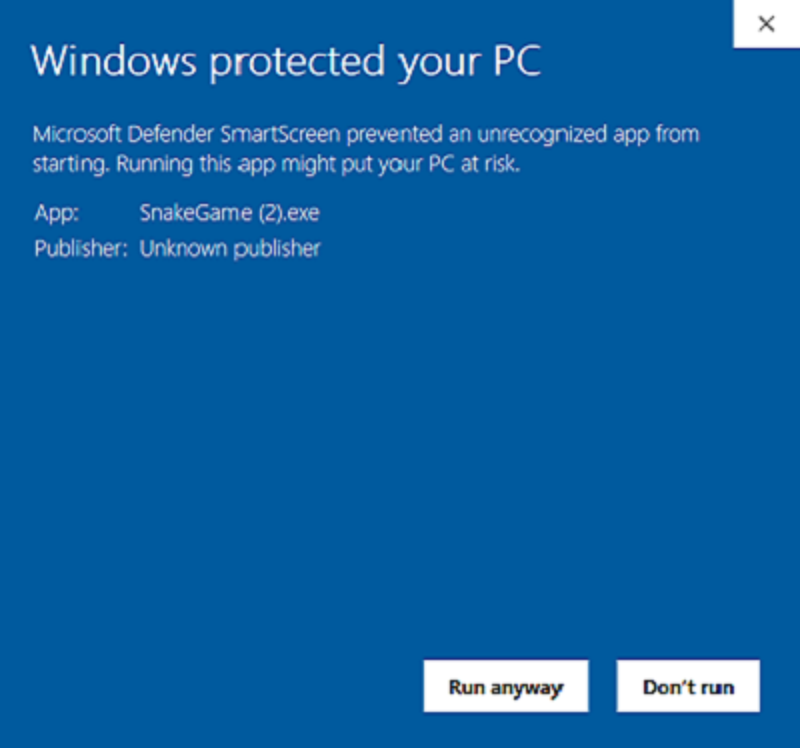
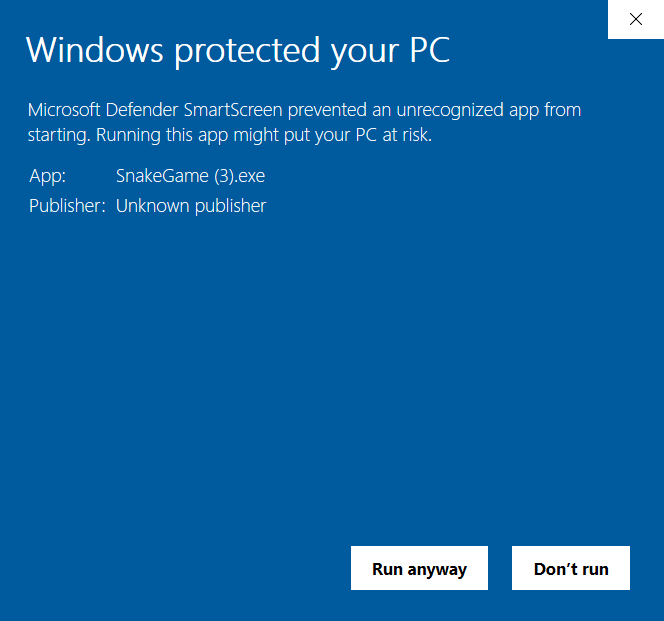
Edited README.md

diff --git a/README.md b/README.md
@@ -57,7 +57,7 @@ Once you have followed these steps according to your browser, go to where ever y
 
 
 <div align="center">
-	<img src="./Annotation 2020-08-28 221502.png" width="400" /> <img src="./Annotation 2020-08-28 221516.png" width="400" />
+	<img src="./Z_README/Windows-File-Warning.png" width="400" /> <img src="./Z_README/Windows-File-Warning-2.png" width="400" />
 </div>
 
 **MacOS**: <br /> 
